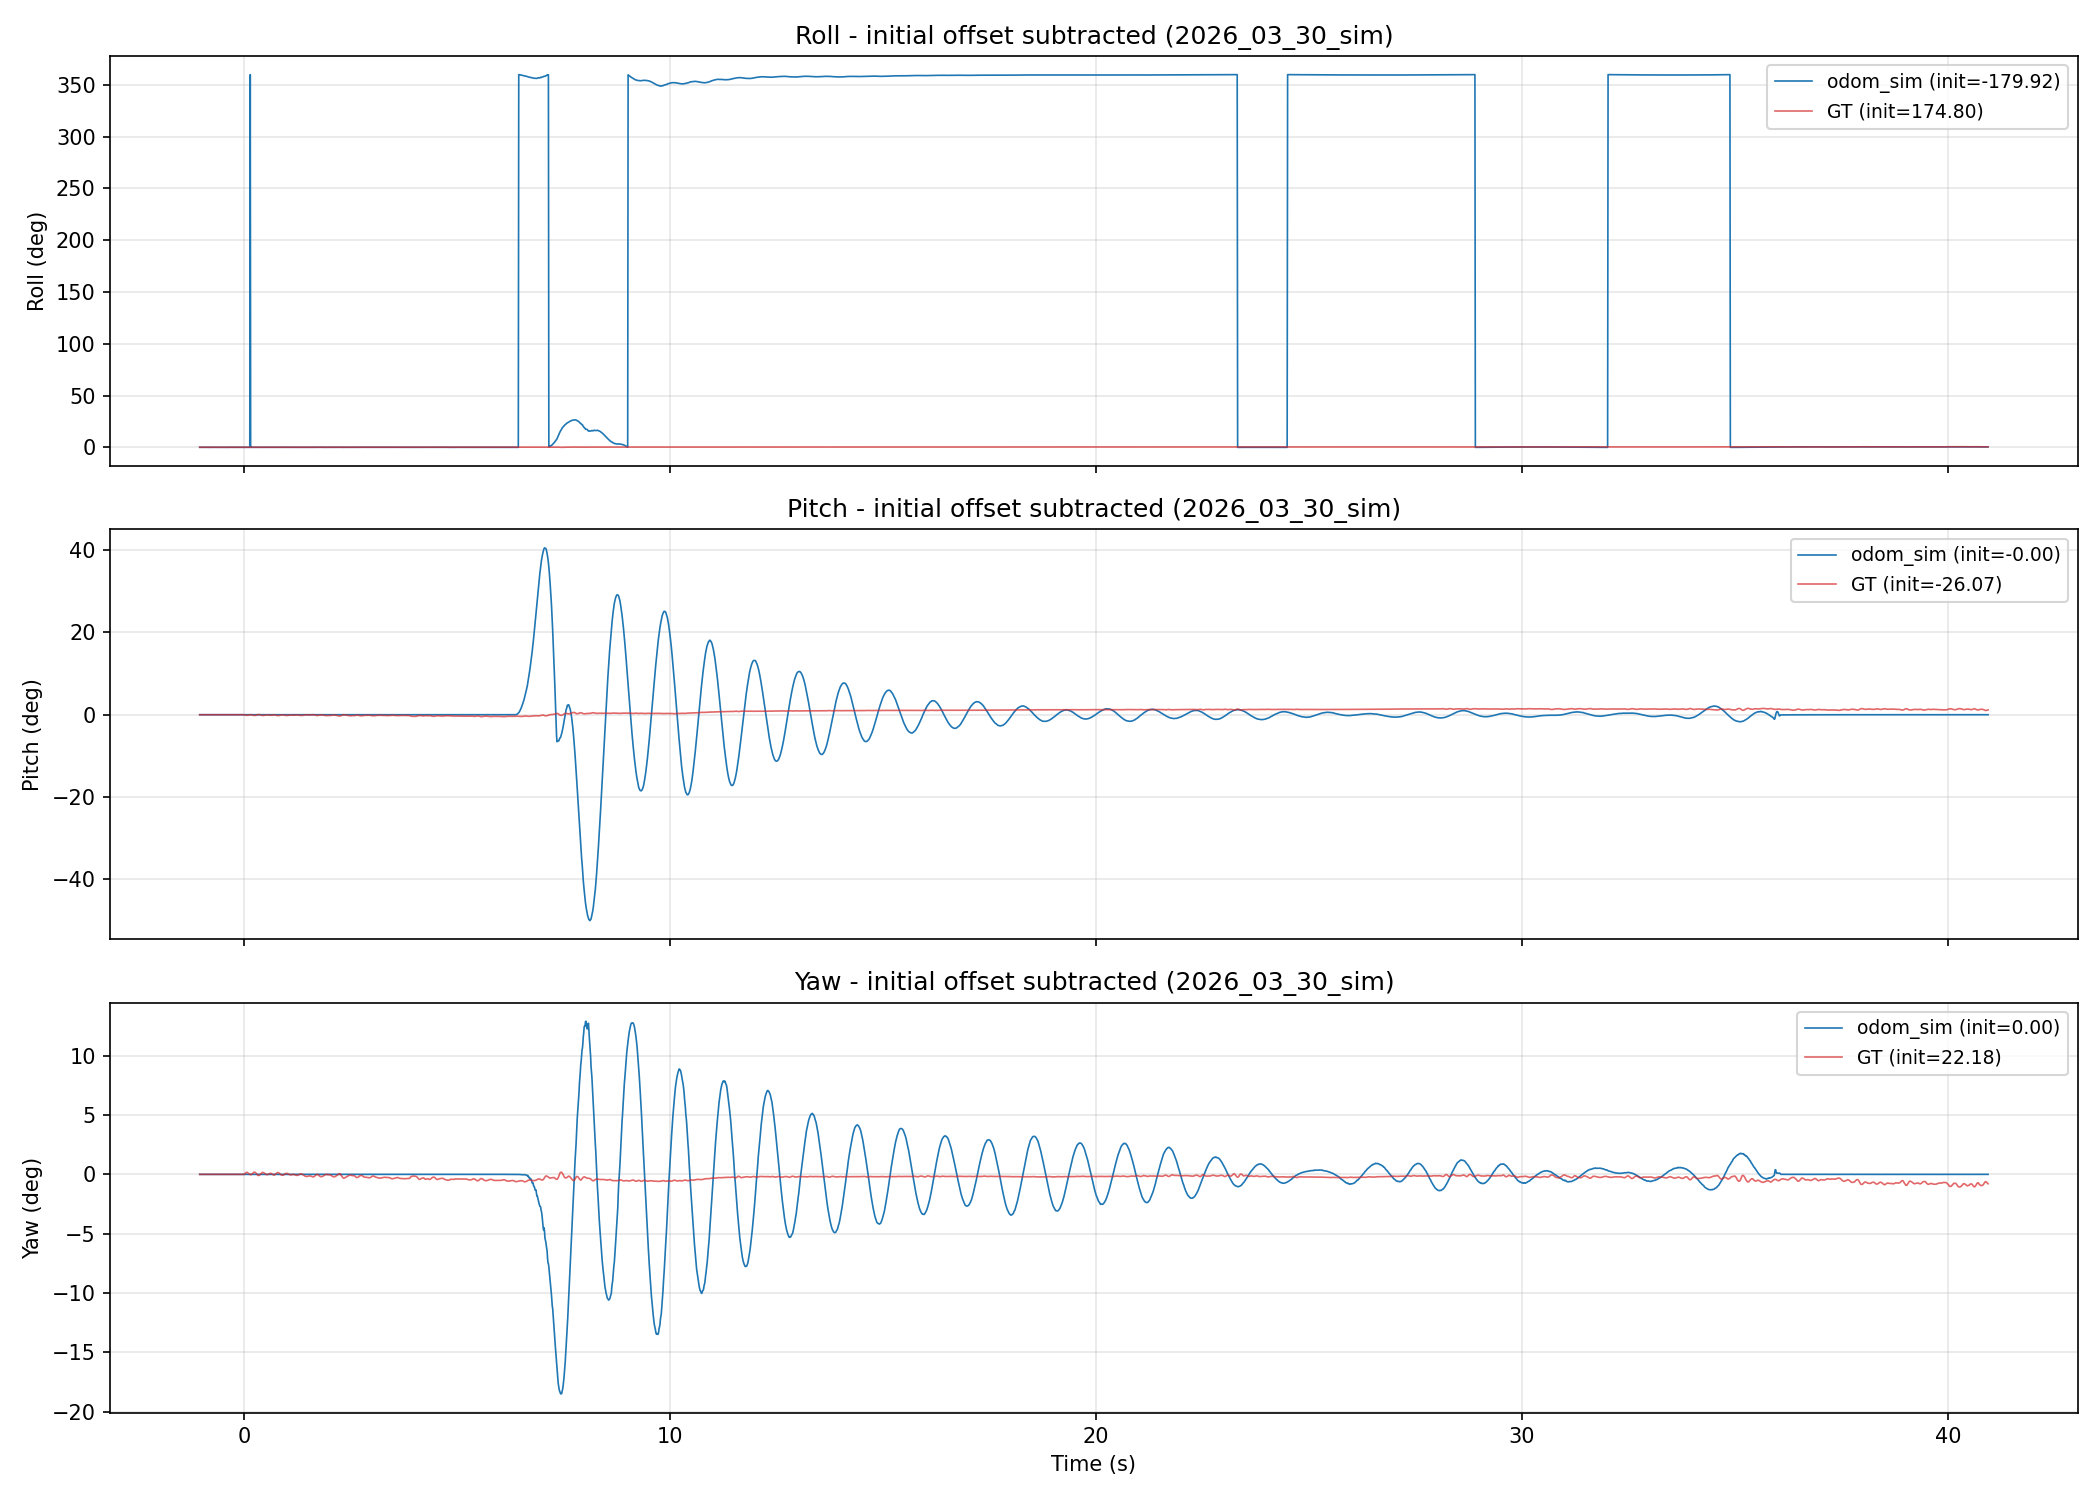
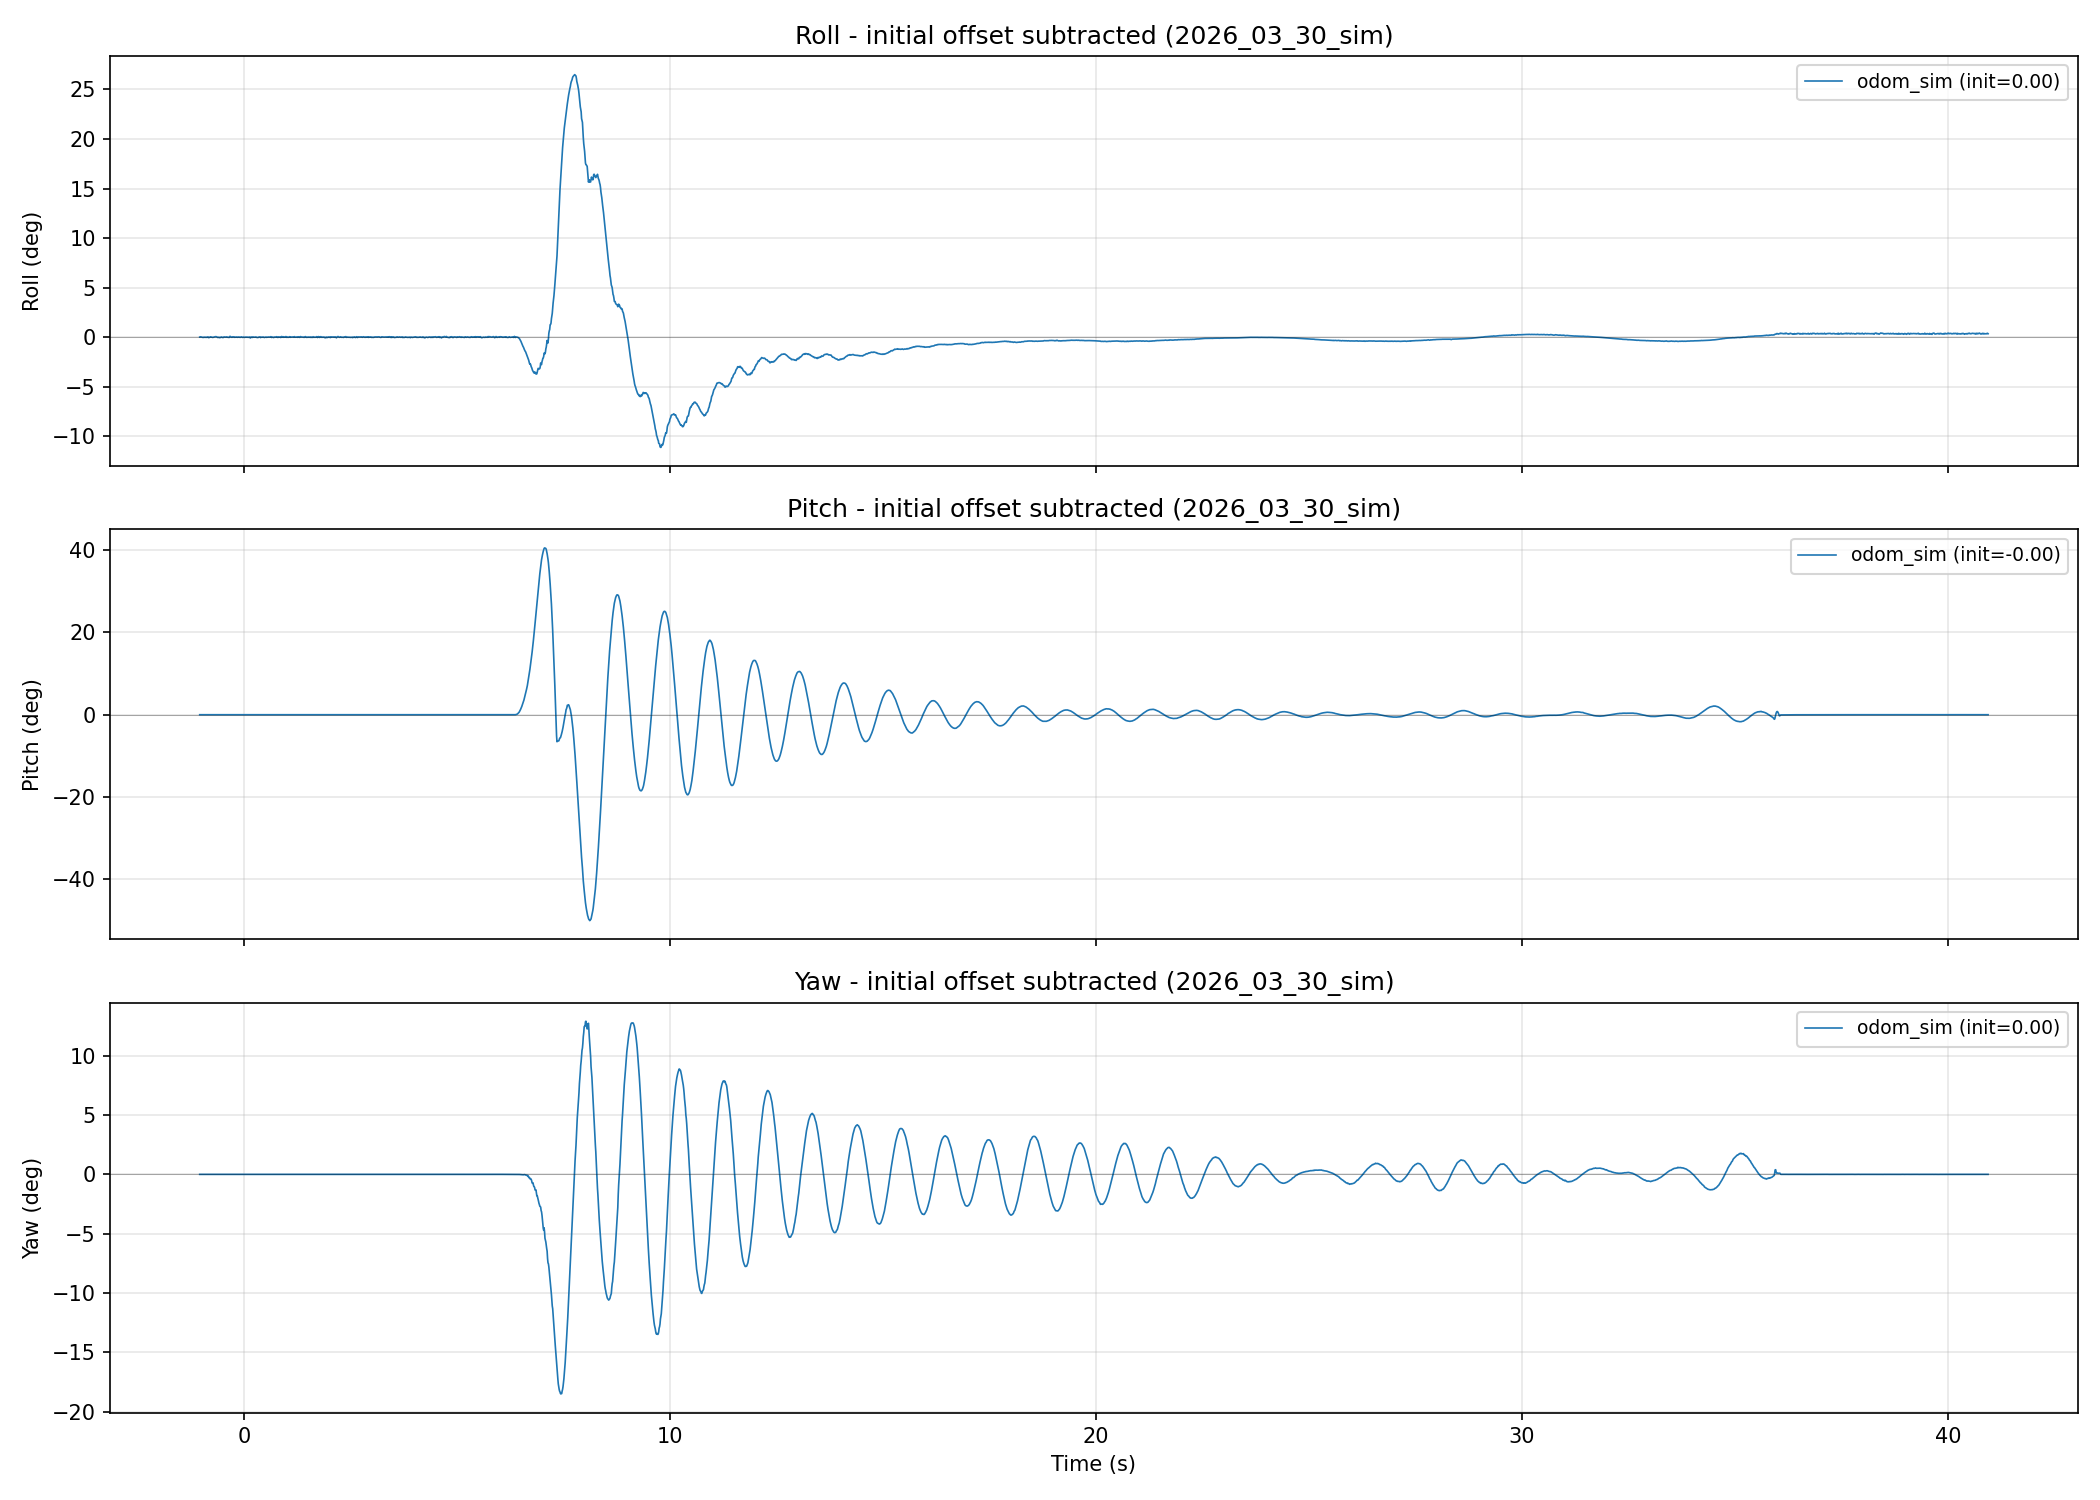
Fix sim plots: remove GT comparison, align 0-lines, unwrap roll singularity
- Position/velocity: odom_sim only, no GT overlay or error row
- MPC moments+RPY: symmetric y-axes to align moment and angle 0-lines
- RPY comparison: odom_sim only, no GT or error plot
- Roll: np.unwrap to handle ±180 singularity cleanly

https://claude.ai/code/session_015hDTXF7MWidPDJrsc9iZ1y

diff --git a/bag_folder/plot_2026_03_30_sim.py b/bag_folder/plot_2026_03_30_sim.py
@@ -205,22 +205,15 @@ def plot_sim(bag_name, db_path):
             liftoff_t = d['cmd_t'][j]
             break
 
-    # ── 1. Position + Velocity + Position Error ──
-    gt_px_i = np.interp(d['sim_t'], d['gt_t'], d['gt_px'])
-    gt_py_i = np.interp(d['sim_t'], d['gt_t'], d['gt_py'])
-    gt_pz_i = np.interp(d['sim_t'], d['gt_t'], d['gt_pz'])
-
-    fig, axes = plt.subplots(3, 1, figsize=(14, 11), sharex=True)
+    # ── 1. Position + Velocity (odom_sim only, no GT) ──
+    fig, axes = plt.subplots(2, 1, figsize=(14, 8), sharex=True)
     ax = axes[0]
-    ax.plot(d['sim_t'], d['sim_px'], 'tab:red', lw=0.8, label='odom_sim x')
-    ax.plot(d['sim_t'], d['sim_py'], 'tab:blue', lw=0.8, label='odom_sim y')
-    ax.plot(d['sim_t'], d['sim_pz'], 'tab:green', lw=0.8, label='odom_sim z')
-    ax.plot(d['gt_t'], d['gt_px'], 'tab:red', lw=0.8, ls='--', alpha=0.6, label='GT x')
-    ax.plot(d['gt_t'], d['gt_py'], 'tab:blue', lw=0.8, ls='--', alpha=0.6, label='GT y')
-    ax.plot(d['gt_t'], d['gt_pz'], 'tab:green', lw=0.8, ls='--', alpha=0.6, label='GT z')
+    ax.plot(d['sim_t'], d['sim_px'], 'tab:red', lw=0.8, label='x')
+    ax.plot(d['sim_t'], d['sim_py'], 'tab:blue', lw=0.8, label='y')
+    ax.plot(d['sim_t'], d['sim_pz'], 'tab:green', lw=0.8, label='z')
     ax.set_ylabel('Position (m)')
-    ax.set_title(f'Position - odom_sim (solid) vs GT (dashed) ({bag_name})')
-    ax.legend(loc='upper right', fontsize=9, ncol=2)
+    ax.set_title(f'Position ({bag_name})')
+    ax.legend(loc='upper right', fontsize=10)
     ax.grid(True, alpha=0.3)
 
     ax = axes[1]
@@ -228,18 +221,8 @@ def plot_sim(bag_name, db_path):
     ax.plot(d['sim_t'], d['sim_vy'], 'tab:blue', lw=0.8, label='vy')
     ax.plot(d['sim_t'], d['sim_vz'], 'tab:green', lw=0.8, label='vz')
     ax.set_ylabel('Velocity (m/s)')
-    ax.set_title(f'Linear velocity - world frame ({bag_name})')
-    ax.legend(loc='upper right', fontsize=10)
-    ax.grid(True, alpha=0.3)
-
-    ax = axes[2]
-    ax.plot(d['sim_t'], d['sim_px'] - gt_px_i, 'tab:red', lw=0.8, label='ex')
-    ax.plot(d['sim_t'], d['sim_py'] - gt_py_i, 'tab:blue', lw=0.8, label='ey')
-    ax.plot(d['sim_t'], d['sim_pz'] - gt_pz_i, 'tab:green', lw=0.8, label='ez')
-    ax.axhline(0, color='k', ls='-', lw=0.5, alpha=0.3)
-    ax.set_ylabel('Position error (m)')
     ax.set_xlabel('Time (s)')
-    ax.set_title(f'Position error (odom_sim - GT) ({bag_name})')
+    ax.set_title(f'Linear velocity - world frame ({bag_name})')
     ax.legend(loc='upper right', fontsize=10)
     ax.grid(True, alpha=0.3)
 
@@ -248,12 +231,17 @@ def plot_sim(bag_name, db_path):
     plt.savefig(out, dpi=150); plt.close()
     print(f'Saved: {out}')
 
-    # ── 2. MPC moment + angle (3 rows, dual y-axis) ──
+    # ── 2. MPC moment + angle (3 rows, dual y-axis, 0-lines aligned) ──
+    # Fix roll singularity: unwrap ±180 jumps, then subtract initial value
+    sim_roll_rad = np.deg2rad(d['sim_roll'])
+    sim_roll_unwrap = np.rad2deg(np.unwrap(sim_roll_rad))
+    sim_roll_clean = sim_roll_unwrap - sim_roll_unwrap[0]  # zero-referenced
+
     fig, axes = plt.subplots(3, 1, figsize=(14, 10), sharex=True)
-    for i, (m_label, mpc_key, cmd_key, a_label, sim_key, gt_key) in enumerate([
-        ('Mx', 'mpc_Mx', 'cmd_Mx', 'Roll', 'sim_roll', 'gt_roll'),
-        ('My', 'mpc_My', 'cmd_My', 'Pitch', 'sim_pitch', 'gt_pitch'),
-        ('Mz', 'mpc_Mz', 'cmd_Mz', 'Yaw', 'sim_yaw', 'gt_yaw'),
+    for i, (m_label, mpc_key, cmd_key, a_label, angle_data) in enumerate([
+        ('Mx', 'mpc_Mx', 'cmd_Mx', 'Roll', sim_roll_clean),
+        ('My', 'mpc_My', 'cmd_My', 'Pitch', d['sim_pitch']),
+        ('Mz', 'mpc_Mz', 'cmd_Mz', 'Yaw', d['sim_yaw']),
     ]):
         ax1 = axes[i]
         ln1 = ax1.plot(d['mpc_t'], d[mpc_key], color='tab:blue', lw=0.8, label=f'MPC {m_label} (Nm)')
@@ -263,15 +251,20 @@ def plot_sim(bag_name, db_path):
         ax1.grid(True, alpha=0.3)
 
         ax2 = ax1.twinx()
-        ln2 = ax2.plot(d['sim_t'], d[sim_key], color='tab:red', lw=0.8, label=f'{a_label} sim (deg)')
-        ln3 = ax2.plot(d['gt_t'], d[gt_key], color='tab:orange', lw=0.8, alpha=0.7, label=f'{a_label} GT (deg)')
+        ln2 = ax2.plot(d['sim_t'], angle_data, color='tab:red', lw=0.8, label=f'{a_label} (deg)')
         ax2.set_ylabel(f'{a_label} (deg)', color='tab:red')
         ax2.tick_params(axis='y', labelcolor='tab:red')
+
+        # Align 0-lines: make both axes symmetric around 0
+        m_max = max(abs(ax1.get_ylim()[0]), abs(ax1.get_ylim()[1]))
+        ax1.set_ylim(-m_max, m_max)
+        a_max = max(abs(ax2.get_ylim()[0]), abs(ax2.get_ylim()[1]))
+        ax2.set_ylim(-a_max, a_max)
 
         if liftoff_t is not None:
             ax1.axvline(liftoff_t, color='k', ls='--', lw=0.8, alpha=0.6, label=f'liftoff {liftoff_t:.1f}s')
 
-        lns = ln1 + ln4 + ln2 + ln3
+        lns = ln1 + ln4 + ln2
         if liftoff_t is not None:
             lns += ax1.get_lines()[-1:]
         labs = [l.get_label() for l in lns]
@@ -336,23 +329,18 @@ def plot_sim(bag_name, db_path):
     plt.savefig(out, dpi=150); plt.close()
     print(f'Saved: {out}')
 
-    # ── 5. RPY comparison (initial offset subtracted) ──
-    gt_roll_i = np.interp(d['sim_t'], d['gt_t'], d['gt_roll'])
-    gt_pitch_i = np.interp(d['sim_t'], d['gt_t'], d['gt_pitch'])
-    gt_yaw_i = np.interp(d['sim_t'], d['gt_t'], d['gt_yaw'])
-
+    # ── 5. RPY (odom_sim only, initial offset subtracted, roll clipped) ──
     sim_roll0 = d['sim_roll'][0]; sim_pitch0 = d['sim_pitch'][0]; sim_yaw0 = d['sim_yaw'][0]
-    gt_roll0 = gt_roll_i[0]; gt_pitch0 = gt_pitch_i[0]; gt_yaw0 = gt_yaw_i[0]
 
     fig, axes = plt.subplots(3, 1, figsize=(14, 10), sharex=True)
-    for i, (label, sim_sig, sim0, gt_sig, gt0) in enumerate([
-        ('Roll', d['sim_roll'], sim_roll0, gt_roll_i, gt_roll0),
-        ('Pitch', d['sim_pitch'], sim_pitch0, gt_pitch_i, gt_pitch0),
-        ('Yaw', d['sim_yaw'], sim_yaw0, gt_yaw_i, gt_yaw0),
+    for i, (label, sim_sig, sim0) in enumerate([
+        ('Roll', sim_roll_clean, sim_roll_clean[0]),
+        ('Pitch', d['sim_pitch'], sim_pitch0),
+        ('Yaw', d['sim_yaw'], sim_yaw0),
     ]):
         ax = axes[i]
         ax.plot(d['sim_t'], sim_sig - sim0, 'tab:blue', lw=0.8, label=f'odom_sim (init={sim0:.2f})')
-        ax.plot(d['sim_t'], gt_sig - gt0, 'tab:red', lw=0.8, alpha=0.7, label=f'GT (init={gt0:.2f})')
+        ax.axhline(0, color='k', ls='-', lw=0.5, alpha=0.3)
         ax.set_ylabel(f'{label} (deg)')
         ax.set_title(f'{label} - initial offset subtracted ({bag_name})')
         ax.legend(loc='upper right', fontsize=9)
@@ -360,26 +348,6 @@ def plot_sim(bag_name, db_path):
     axes[2].set_xlabel('Time (s)')
     plt.tight_layout()
     out = f'{base}_rpy_comparison.png'
-    plt.savefig(out, dpi=150); plt.close()
-    print(f'Saved: {out}')
-
-    # ── 6. RPY error (odom_sim - GT) ──
-    fig, axes = plt.subplots(3, 1, figsize=(14, 10), sharex=True)
-    for i, (label, sim_sig, gt_sig) in enumerate([
-        ('Roll', d['sim_roll'], gt_roll_i),
-        ('Pitch', d['sim_pitch'], gt_pitch_i),
-        ('Yaw', d['sim_yaw'], gt_yaw_i),
-    ]):
-        err = sim_sig - gt_sig
-        ax = axes[i]
-        ax.plot(d['sim_t'], err, 'tab:blue', lw=0.8)
-        ax.axhline(0, color='k', ls='-', lw=0.5, alpha=0.3)
-        ax.set_ylabel(f'{label} error (deg)')
-        ax.set_title(f'{label} error (odom_sim - GT), mean={np.mean(err):.3f}, std={np.std(err):.3f} ({bag_name})')
-        ax.grid(True, alpha=0.3)
-    axes[2].set_xlabel('Time (s)')
-    plt.tight_layout()
-    out = f'{base}_rpy_error.png'
     plt.savefig(out, dpi=150); plt.close()
     print(f'Saved: {out}')
 
